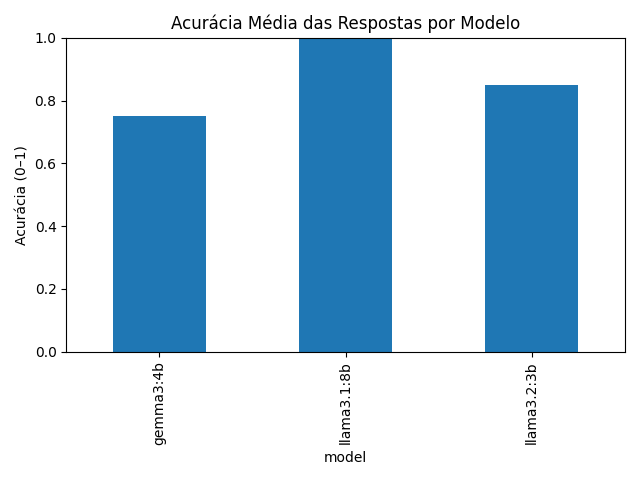
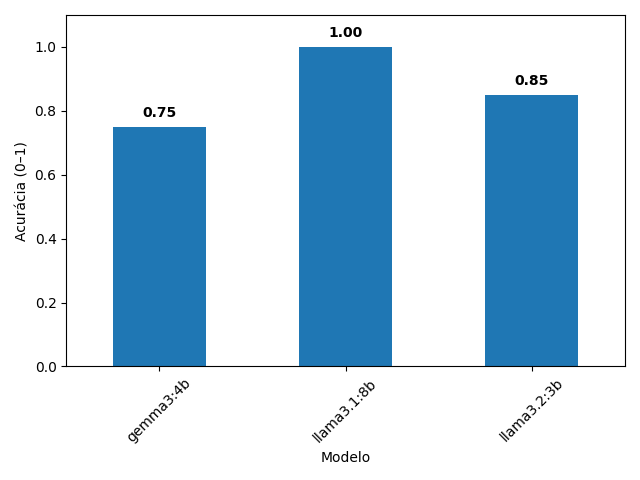
fix: Update grafics generator

diff --git a/metrics_analyzer/analyze_metrics.py b/metrics_analyzer/analyze_metrics.py
@@ -3,139 +3,121 @@ import pandas as pd
 import matplotlib.pyplot as plt
 import os
 
+# Configuração de conexão
 conn = psycopg2.connect(
-    host=os.getenv("POSTGRES_HOST"),
-    port=os.getenv("POSTGRES_PORT"),
-    database=os.getenv("POSTGRES_DB"),
-    user=os.getenv("POSTGRES_USER"),
-    password=os.getenv("POSTGRES_PASSWORD"),
+    host=os.getenv("POSTGRES_HOST", "postgres_db"),
+    port=os.getenv("POSTGRES_PORT", "5432"),
+    database=os.getenv("POSTGRES_DB", "llm_metrics_db"),
+    user=os.getenv("POSTGRES_USER", "n8n_user"),
+    password=os.getenv("POSTGRES_PASSWORD", "n8n_user"),
 )
 
-# =========================
-# 1. TOKENS POR MODELO
-# =========================
+def add_labels(ax):
+    """Adiciona os valores exatos acima das barras com ajuste de posição"""
+    for p in ax.patches:
+        height = p.get_height()
+        ax.annotate(f'{height:.2f}', 
+                    (p.get_x() + p.get_width() / 2., height), 
+                    ha='center', va='bottom',  # Alinhamento pela base do texto
+                    xytext=(0, 5),             # 5 pontos de distância acima da barra
+                    textcoords='offset points',
+                    fontsize=10,
+                    fontweight='bold')
+
+def save_chart(df, x_col, y_col, filename, ylabel):
+    if df.empty:
+        return
+    plt.figure(figsize=(10, 6))
+    ax = df.plot(kind="bar", x=x_col, y=y_col, legend=False, rot=45, color='#1f77b4')
+    
+    # Ajustes de layout e eixos
+    plt.xlabel("Modelo")
+    plt.ylabel(ylabel)
+    
+    # Aumenta a margem superior em 15% para o número não bater na linha do gráfico
+    plt.gca().margins(y=0.15) 
+    
+    add_labels(plt.gca())
+    plt.tight_layout()
+    plt.savefig(f"/output/{filename}")
+    plt.clf()
+    plt.close()
+
+# ==========================================
+# 1. TOKENS POR SEGUNDO (TPS) - CORRIGIDO
+# ==========================================
+# Removida a divisão por 1000, pois a latência já está em segundos
 tokens_df = pd.read_sql("""
 SELECT
-  m.name || ':' || m.parameters AS model,
-  SUM(e.total_tokens) AS total_tokens
+  m.name || ':' || m.parameters AS "Modelo",
+  SUM(e.total_tokens) / NULLIF(SUM(e.latency_ms), 0) AS tps
 FROM llm_metrics.executions e
 JOIN llm_metrics.models m ON m.id = e.model_id
-GROUP BY model;
+GROUP BY "Modelo";
 """, conn)
 
-tokens_df.plot(
-    kind="bar",
-    x="model",
-    y="total_tokens",
-    legend=False,
-    title="Uso Total de Tokens por Modelo"
-)
-plt.ylabel("Tokens")
-plt.tight_layout()
-plt.savefig("/output/tokens_por_modelo.png")
-plt.clf()
+save_chart(tokens_df, "Modelo", "tps", "tokens_por_segundo.png", "Tokens por Segundo (TPS)")
 
-# =========================
-# 2. LATÊNCIA MÉDIA
-# =========================
+# ==========================================
+# 2. LATÊNCIA MÉDIA - CORRIGIDO
+# ==========================================
+# Exibe o valor direto do banco, que já é segundos
 lat_df = pd.read_sql("""
 SELECT
-  m.name || ':' || m.parameters AS model,
-  AVG(e.latency_ms) AS avg_latency
+  m.name || ':' || m.parameters AS "Modelo",
+  AVG(e.latency_ms) AS avg_latency_sec
 FROM llm_metrics.executions e
 JOIN llm_metrics.models m ON m.id = e.model_id
-GROUP BY model;
+GROUP BY "Modelo";
 """, conn)
 
-lat_df.plot(
-    kind="bar",
-    x="model",
-    y="avg_latency",
-    legend=False,
-    title="Tempo Médio de Resposta (seconds)"
-)
-plt.ylabel("seconds")
-plt.tight_layout()
-plt.savefig("/output/latencia_media.png")
-plt.clf()
+save_chart(lat_df, "Modelo", "avg_latency_sec", "latencia_media.png", "Tempo Médio (Segundos)")
 
-# =========================
-# 3. HARDWARE (MÉDIAS)
-# =========================
+# ==========================================
+# 3. HARDWARE (APENAS DADOS VÁLIDOS)
+# ==========================================
 hw_df = pd.read_sql("""
 SELECT
-  m.name || ':' || m.parameters AS model,
+  m.name || ':' || m.parameters AS "Modelo",
   AVG(r.cpu_percent) AS cpu,
   AVG(r.memory_mb) AS ram,
-  AVG(r.disk_read_mb) AS disk_read,
-  AVG(r.disk_write_mb) AS disk_write,
-  AVG(r.net_rx_mb + r.net_tx_mb) AS network
+  AVG(r.disk_read_mb) AS disk_read
 FROM llm_metrics.resource_metrics r
 JOIN llm_metrics.executions e ON e.id = r.execution_id
 JOIN llm_metrics.models m ON m.id = e.model_id
-GROUP BY model;
+GROUP BY "Modelo";
 """, conn)
 
-ax = hw_df.set_index("model")[["cpu", "ram", "disk_read", "disk_write", "network"]] \
-    .plot(kind="bar", figsize=(10, 6))
+# Gráficos individuais de hardware
+save_chart(hw_df, "Modelo", "cpu", "hardware_cpu.png", "Uso Médio de CPU (%)")
+save_chart(hw_df, "Modelo", "ram", "hardware_ram.png", "Uso Médio de RAM (MB)")
+save_chart(hw_df, "Modelo", "disk_read", "hardware_disco_leitura.png", "Leitura de Disco (MB)")
 
-ax.set_title("Uso Médio de Hardware por Modelo")
-ax.set_ylabel("Média")
+# O gráfico de Escrita de Disco foi removido por conter apenas zeros.
 
-ax.legend(
-    title="Métrica",
-    loc="upper left",
-    bbox_to_anchor=(1.02, 1),
-    borderaxespad=0
-)
-
-plt.tight_layout()
-plt.savefig("/output/hardware_geral.png", bbox_inches="tight")
-plt.clf()
-
-
-# =========================
-# 4. HARDWARE – PIZZA (RAM)
-# =========================
-hw_df.set_index("model")["ram"].plot(
-    kind="pie",
-    autopct="%1.1f%%",
-    title="Distribuição Média de Uso de RAM"
-)
-plt.ylabel("")
-plt.tight_layout()
-plt.savefig("/output/hardware_ram_pizza.png")
-plt.clf()
-
-# =========================
-# 5. ACURÁCIA MÉDIA POR MODELO
-# =========================
+# ==========================================
+# 4. ACURÁCIA MÉDIA
+# ==========================================
 accuracy_df = pd.read_sql("""
 SELECT
-  m.name || ':' || m.parameters AS model,
+  m.name || ':' || m.parameters AS "Modelo",
   AVG(a.score) AS avg_accuracy
 FROM llm_metrics.response_accuracy a
-JOIN llm_metrics.responses r
-  ON r.id = a.response_id
-JOIN llm_metrics.models m
-  ON m.id = r.model_id
-GROUP BY model
-ORDER BY model;
+JOIN llm_metrics.responses r ON r.id = a.response_id
+JOIN llm_metrics.models m ON m.id = r.model_id
+GROUP BY "Modelo"
+ORDER BY "Modelo";
 """, conn)
 
-accuracy_df.plot(
-    kind="bar",
-    x="model",
-    y="avg_accuracy",
-    legend=False,
-    title="Acurácia Média das Respostas por Modelo",
-    ylim=(0, 1)
-)
+if not accuracy_df.empty:
+    plt.figure(figsize=(10, 6))
+    ax = accuracy_df.plot(kind="bar", x="Modelo", y="avg_accuracy", legend=False, rot=45)
+    plt.ylabel("Acurácia (0–1)")
+    plt.gca().set_ylim(0, 1.1) # Garante espaço para o rótulo acima da barra 1.0
+    add_labels(plt.gca())
+    plt.tight_layout()
+    plt.savefig("/output/acuracia_media.png")
+    plt.clf()
+    plt.close()
 
-plt.ylabel("Acurácia (0–1)")
-plt.tight_layout()
-plt.savefig("/output/acuracia_media.png")
-plt.clf()
-
-
-print("✅ Gráficos gerados com sucesso.")
+print("✅ Gráficos atualizados: TPS corrigido, Escrita removida e rótulos reposicionados.")
